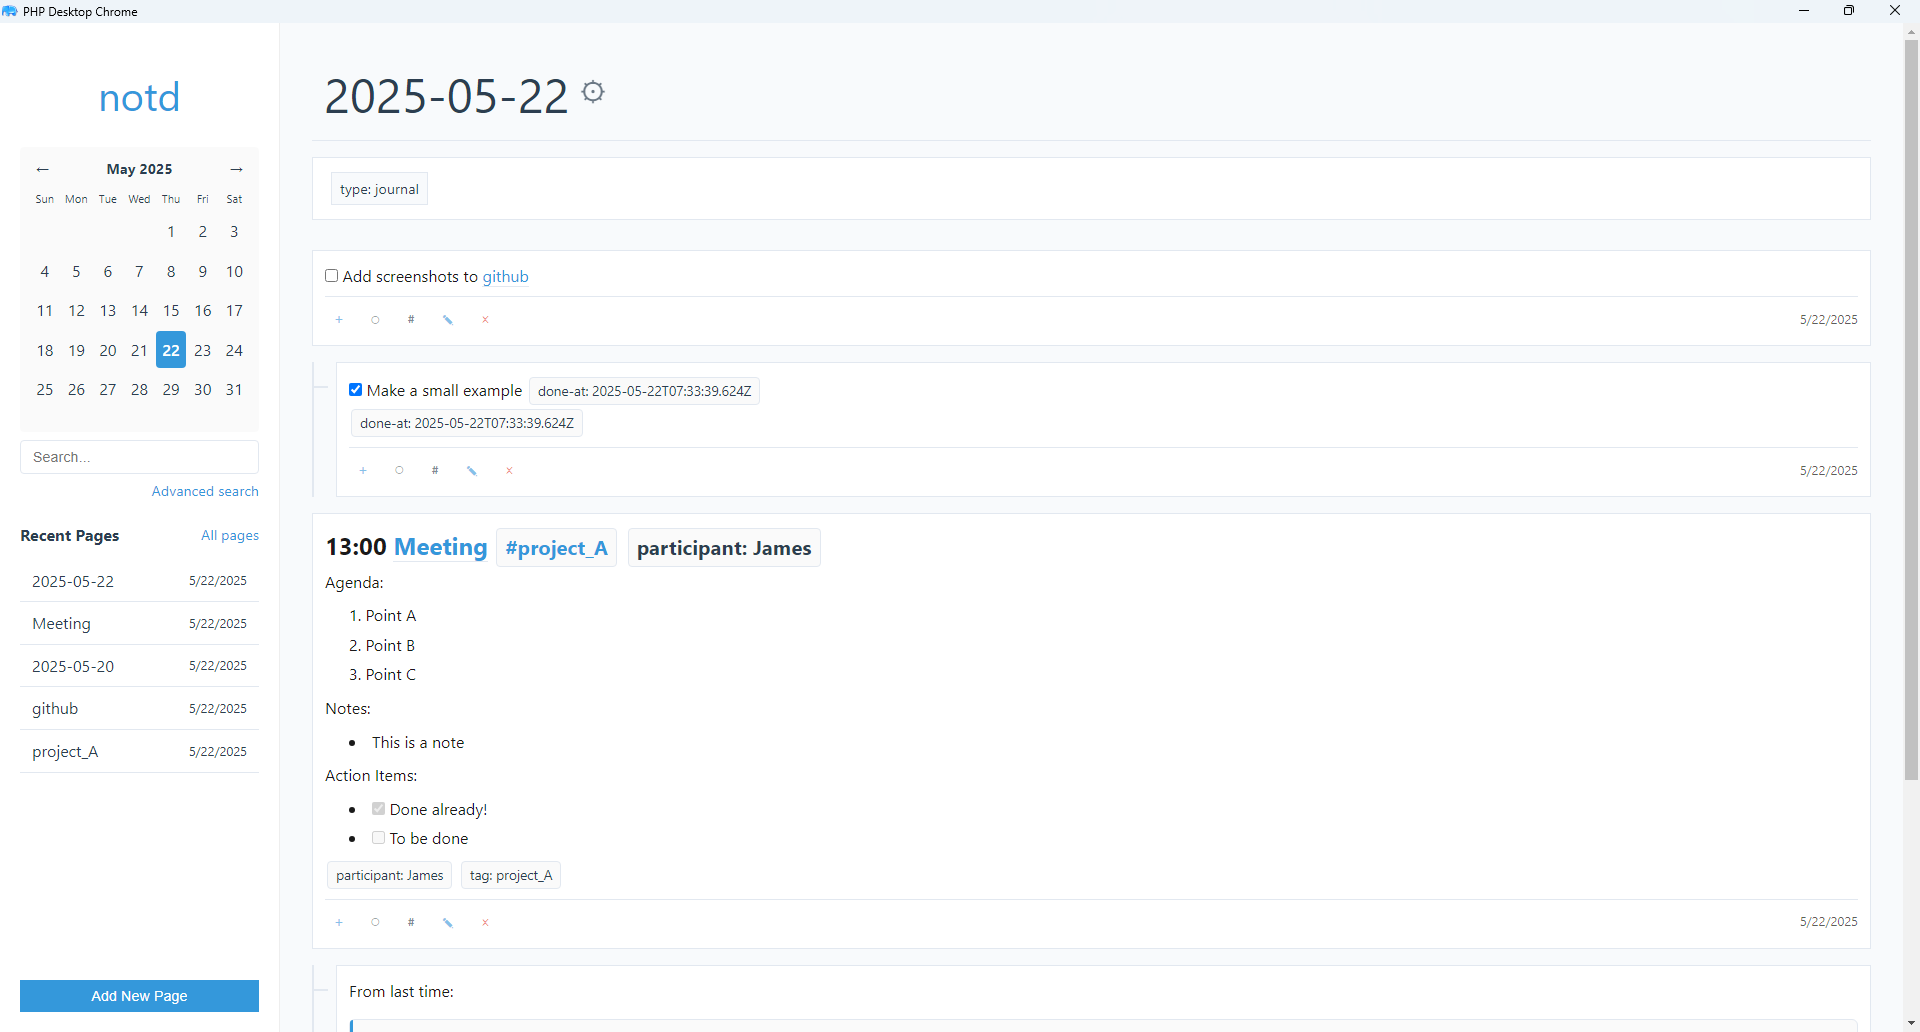
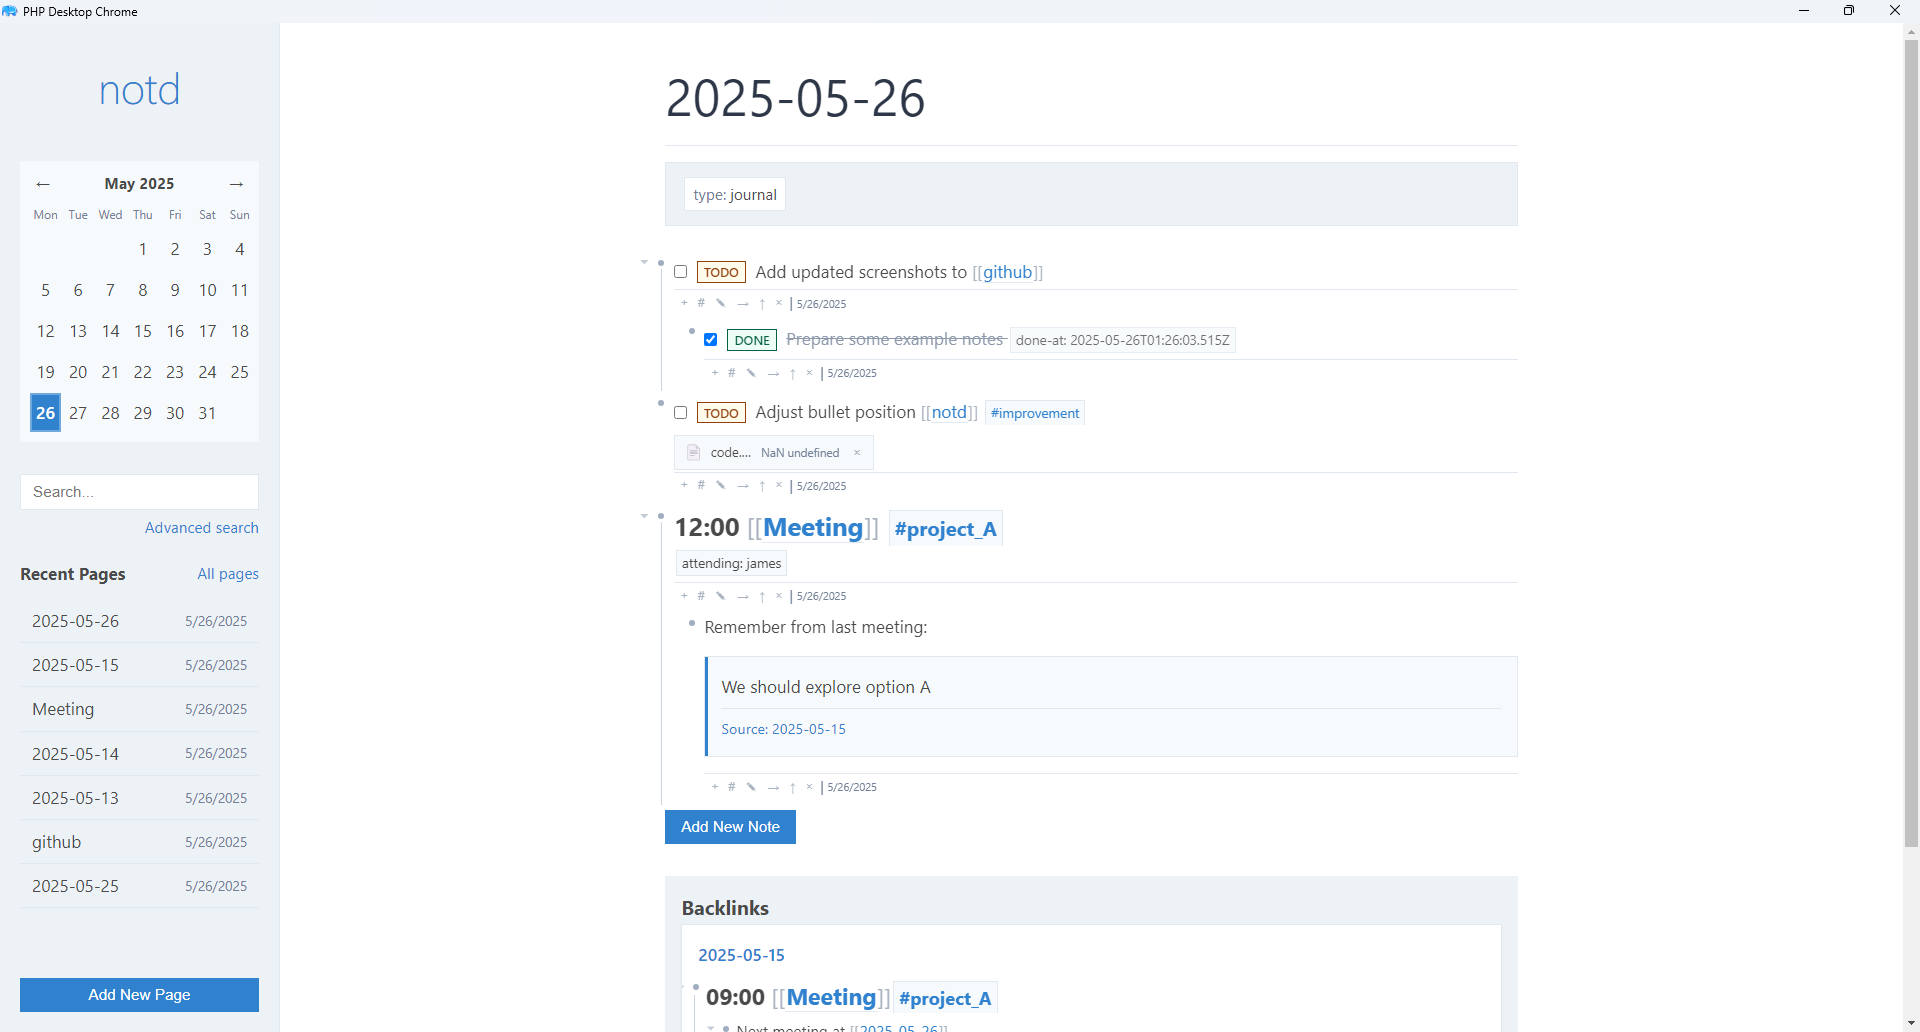
Updated screenshots

diff --git a/README.md b/README.md
@@ -13,13 +13,13 @@ This small project is also a test of so called "vibe coding" - using LLMs to qui
 
 ## Screenshots
 
-TODO elements are rendered as checkboxes, and the done property added when the checkbox is toggled.
+TODO elements are rendered as checkboxes, and the done property added when the checkbox is toggled. There is support for transclusions using the syntax `{{block-is}}`, where the block-id is copied with the `#` button for each note.
 
 ![](frontpage.png)
 
-There is support for transclusions using the syntax `{{block-is}}`, where the block-id is copied with the `#` button for each note. There is also support for searching for notes using SQL directly, e.g. for properties, and one can make links to the specific search directly.
+There is also support for searching for notes using SQL directly, e.g. for properties, and one can make links to the specific search directly.
 
-![](transclusion.png)
+![](search.png)
 
 There is also support for backlinks. Notes are formatted with markdown.
 
